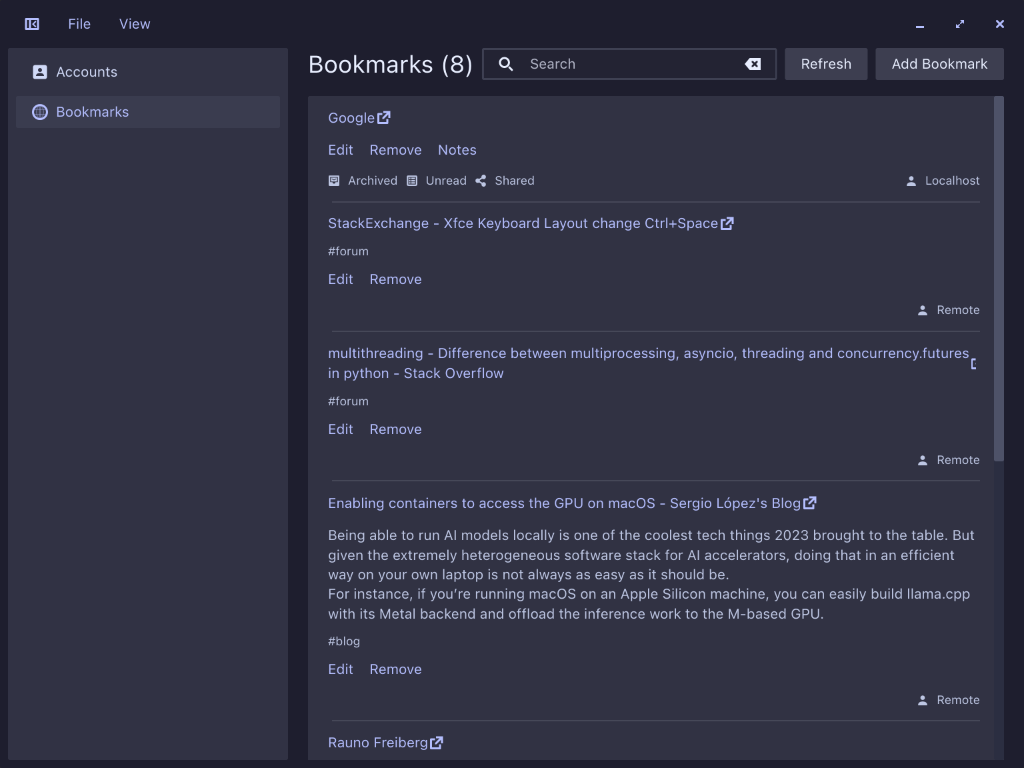
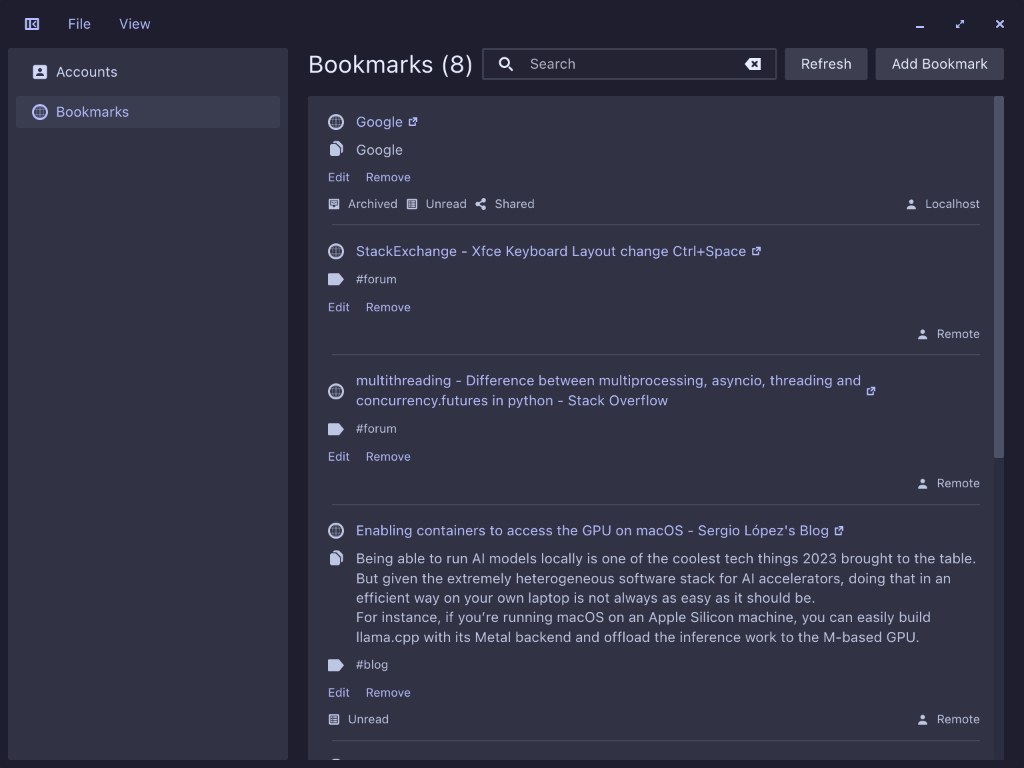
chore: UI Improvements (#15)
Adding icons to Bookmarks page.

Update icons placement in Accounts page.

Updating screenshots.

diff --git a/src/pages/bookmarks.rs b/src/pages/bookmarks.rs
@@ -75,34 +75,44 @@ impl PageBookmarksView {
                 let mut columns = Vec::new();
                 // Mandatory first row - title
                 columns.push(
-                    widget::row::with_capacity(1)
+                    widget::row::with_capacity(2)
                         .spacing(spacing.space_xxs)
                         .padding([
-                            spacing.space_xxxs,
                             spacing.space_xxs,
-                            spacing.space_xxxs,
+                            spacing.space_xxs,
                             spacing.space_none,
+                            spacing.space_xxxs,
                         ])
+                        .push(widget::icon::from_name("web-browser-symbolic"))
                         .push(
                             widget::button::link(item.title.clone())
+                                .spacing(spacing.space_xxxs)
                                 .trailing_icon(true)
+                                .icon_size(11)
                                 .tooltip(item.url.clone())
                                 .on_press(AppBookmarksMessage::OpenExternalURL(item.url.clone())),
                         )
+                        .align_y(Alignment::Center)
                         .into(),
                 );
                 // Optional second row - description
                 if !item.description.is_empty() {
                     columns.push(
-                        widget::row::with_capacity(1)
-                            .spacing(spacing.space_xxs)
+                        widget::row::with_capacity(2)
+                            .spacing(spacing.space_xs)
                             .padding([
                                 spacing.space_xxxs,
                                 spacing.space_xxs,
-                                spacing.space_xxs,
+                                if item.tag_names.is_empty() {
+                                    spacing.space_xxxs
+                                } else {
+                                    spacing.space_none
+                                },
                                 spacing.space_xxxs,
                             ])
+                            .push(widget::icon::from_name("emblem-documents-symbolic"))
                             .push(widget::text(item.description.clone()))
+                            .align_y(Alignment::Start)
                             .into(),
                     );
                 }
@@ -110,13 +120,18 @@ impl PageBookmarksView {
                 if !item.tag_names.is_empty() {
                     columns.push(
                         widget::row::with_capacity(2)
-                            .spacing(spacing.space_none)
+                            .spacing(spacing.space_xs)
                             .padding([
-                                spacing.space_none,
+                                if item.description.is_empty() {
+                                    spacing.space_xxxs
+                                } else {
+                                    spacing.space_xxs
+                                },
                                 spacing.space_xxs,
                                 spacing.space_xxxs,
                                 spacing.space_xxxs,
                             ])
+                            .push(widget::icon::from_name("mail-mark-important-symbolic"))
                             .push(
                                 widget::text::body(
                                     item.tag_names
@@ -127,19 +142,20 @@ impl PageBookmarksView {
                                 )
                                 .size(12),
                             )
+                            .align_y(Alignment::Center)
                             .into(),
                     );
                 }
                 // Mandatory fourth row - actions
                 let mut actions_row = widget::row::with_capacity(1)
                     .spacing(spacing.space_xxs)
-                    .push(widget::button::link(fl!("edit")).on_press(
+                    .push(widget::button::link(fl!("edit")).font_size(12).on_press(
                         AppBookmarksMessage::EditBookmark(
                             derived_account.to_owned(),
                             item.to_owned(),
                         ),
                     ))
-                    .push(widget::button::link(fl!("remove")).on_press(
+                    .push(widget::button::link(fl!("remove")).font_size(12).on_press(
                         AppBookmarksMessage::DeleteBookmark(
                             derived_account.to_owned(),
                             item.to_owned(),
@@ -148,6 +164,7 @@ impl PageBookmarksView {
                 if !item.notes.is_empty() {
                     actions_row = actions_row.push(
                         widget::button::link(fl!("notes"))
+                            .font_size(12)
                             .on_press(AppBookmarksMessage::ViewNotes(item.clone())),
                     );
                 }
@@ -156,7 +173,7 @@ impl PageBookmarksView {
                         .padding([
                             spacing.space_none,
                             spacing.space_xxs,
-                            spacing.space_xxxs,
+                            spacing.space_none,
                             spacing.space_none,
                         ])
                         .into(),
@@ -208,7 +225,7 @@ impl PageBookmarksView {
                 .height(Length::Fill);
 
             widget::container(
-                widget::column::with_children(vec![widget::row::with_capacity(3)
+                widget::column::with_children(vec![widget::row::with_capacity(2)
                     .align_y(Alignment::Center)
                     .push(widget::text::title3(fl!(
                         "bookmarks-with-count",

diff --git a/src/pages/accounts.rs b/src/pages/accounts.rs
@@ -69,7 +69,7 @@ impl PageAccountsView {
                 let mut columns = Vec::new();
                 columns.push(
                     widget::row::with_capacity(2)
-                        .spacing(spacing.space_xxs)
+                        .spacing(spacing.space_xs)
                         .push(widget::icon::from_name("user-available-symbolic"))
                         .push(widget::text(item.display_name.clone()))
                         .padding([
@@ -84,7 +84,7 @@ impl PageAccountsView {
                 // Mandatory second row - sync status
                 columns.push(
                     widget::row::with_capacity(2)
-                        .spacing(spacing.space_xxs)
+                        .spacing(spacing.space_xs)
                         .padding([
                             spacing.space_xxxs,
                             spacing.space_xxs,
@@ -101,12 +101,13 @@ impl PageAccountsView {
                                 fl!("failed")
                             }
                         )))
+                        .align_y(Alignment::Center)
                         .into(),
                 );
                 // Mandatory third row - sync timestamp
                 columns.push(
                     widget::row::with_capacity(2)
-                        .spacing(spacing.space_xxs)
+                        .spacing(spacing.space_xs)
                         .padding([
                             spacing.space_xxxs,
                             spacing.space_xxs,
@@ -119,12 +120,13 @@ impl PageAccountsView {
                             fl!("last-sync-time"),
                             local_time.to_rfc2822()
                         )))
+                        .align_y(Alignment::Center)
                         .into(),
                 );
                 // Mandatory fourth row - details
                 columns.push(
                     widget::row::with_capacity(2)
-                        .spacing(spacing.space_xxs)
+                        .spacing(spacing.space_xs)
                         .padding([
                             spacing.space_xxxs,
                             spacing.space_xxs,
@@ -149,25 +151,31 @@ impl PageAccountsView {
                                 widget::text::body(fl!("disabled-public-sharing")).into()
                             },
                         ])))
+                        .align_y(Alignment::Center)
                         .into(),
                 );
                 // Mandatory fifth row - actions
                 let actions_row = widget::row::with_capacity(3)
-                    .spacing(spacing.space_xxs)
-                    .push(widget::button::link(fl!("refresh")).on_press(
+                    .spacing(spacing.space_xs)
+                    .push(widget::button::link(fl!("refresh")).font_size(12).on_press(
                         AppAccountsMessage::RefreshBookmarksForAccount(item.to_owned()),
                     ))
                     .push(
                         widget::button::link(fl!("edit"))
+                            .font_size(12)
                             .on_press(AppAccountsMessage::EditAccount(item.to_owned())),
                     )
                     .push(
                         widget::button::link(fl!("remove"))
+                            .font_size(12)
                             .on_press(AppAccountsMessage::DeleteAccount(item.to_owned())),
                     )
                     .push(
                         widget::button::link(fl!("open-instance"))
+                            .spacing(spacing.space_xxxs)
                             .trailing_icon(true)
+                            .icon_size(10)
+                            .font_size(12)
                             .on_press(AppAccountsMessage::OpenExternalURL(item.instance.clone()))
                             .tooltip(item.instance.clone()),
                     );

diff --git a/src/app.rs b/src/app.rs
@@ -532,7 +532,7 @@ impl Application for Cosmicding {
                         ));
                         commands.push(
                             self.toasts
-                                .push(widget::toaster::Toast::new(fl!("refreshed-all-bookmarks")))
+                                .push(widget::toaster::Toast::new(fl!("refreshed-bookmarks")))
                                 .map(cosmic::app::Message::App),
                         );
                     }

diff --git a/README.md b/README.md
@@ -17,7 +17,7 @@ While cosmicding was desgined for COSMIC™ Desktop Environment, it should be ab
 Features:
 
 - Support multiple linkding instances (or multiple users on the same instance).
-- Cache/aggregate bookmarks locally.
+- Aggregate bookmarks locally.
 - Add/Edit/Remove bookmarks.
 - Search bookmarks based on title, URL, tags, desscription, and notes.
 
